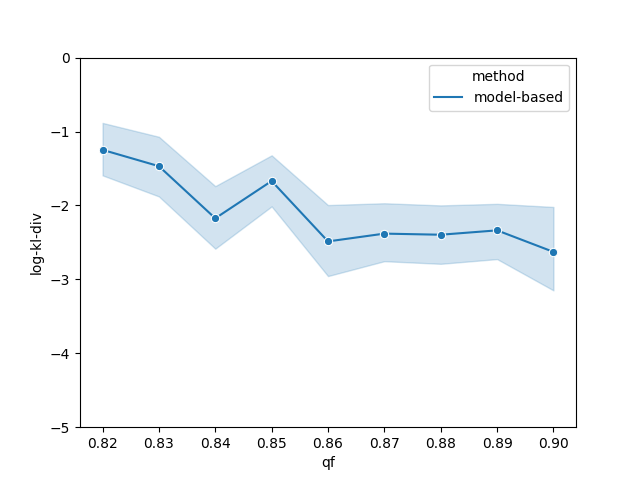
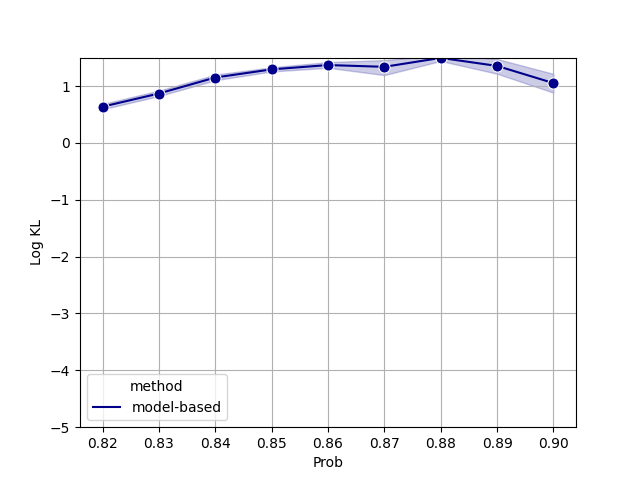
using probe distribution to guide sampling
queueing sampling correction - uniform probe

diff --git a/queueing.py b/queueing.py
@@ -11,8 +11,9 @@ sampled transitions.
 
 def build_tabular(state_seq, max_state):
 	T = np.zeros((max_state+1, max_state+1), dtype=float)
-	for i in range(1, len(state_seq)):
-		T[state_seq[i-1]][state_seq[i]] += 1
+	for (curr_state, next_state) in state_seq:
+		T[curr_state][next_state] += 1
+	
 	row_sums = T.sum(axis=1)
 	row_sums = np.reshape(row_sums, (row_sums.shape[0], 1) )
 
@@ -26,9 +27,14 @@ def estimate_tabular_stationary(transition_mat, iters):
 	stationary_estimate = np.zeros((1,transition_mat.shape[0]))
 	for _ in range(iters):
 		# many transitions and we obtain the last state visited
-		state = 0
+		state = np.random.choice(a=transition_mat.shape[0])
 		for _ in range(iters):
-			state = np.random.choice(a=transition_mat.shape[0], 
+			# print(state, transition_mat[state,:])
+			# implementing a lazy random walk
+			if np.isnan(transition_mat[state,:]).any():
+				state = np.random.choice(a=transition_mat.shape[0])
+			else:
+				state = np.random.choice(a=transition_mat.shape[0], 
 									 p=transition_mat[state,:])
 		stationary_estimate[0, state] += 1
 	
@@ -51,15 +57,19 @@ def gg1_step(curr_state, qa, qf):
 		return curr_state + step_addon
 
 
-def sample_nsteps(n, initial_state, qa, qf, transition_func=gg1_step):
-	curr_state = initial_state
-	state_seq = [curr_state]
-	max_state = initial_state
-	for _ in range(n):
-		curr_state = transition_func(curr_state, qa, qf)
-		state_seq.append(curr_state)
-		if curr_state > max_state:
-			max_state = curr_state
+def sample_nsteps(n, qa, qf, transition_func=gg1_step):
+	if (n < 1):
+		return [], None
+	rho = (qa*(1-qf))/(qf*(1-qa))
+	B = int(np.ceil(40*rho))
+	state_seq = []
+	max_state = -1
+	for i in range(n):
+		curr_state = np.random.choice(a=B)
+		next_state = transition_func(curr_state, qa, qf)
+		state_seq.append((curr_state, next_state) )
+
+		max_state = max(max(next_state, curr_state), max_state)
 	return state_seq, max_state
 
 '''
@@ -75,13 +85,13 @@ def ground_truth_queueing_stationary(qa, qf, max_state):
 '''
 
 def generate_plots(qa, qf, min_val, max_val, increment, var_name, runs, plot_name):
-	log_kl_dict = {"method":[], var_name: [], 
-                  "log-kl-div": []}
+	log_kl_dict = {"method":[], "Samples": [], 
+                  "Log KL": []}
 	for transition_samples in range(min_val, max_val+1, increment):
 		print(f"Generating runs for transitions samples = {transition_samples}")
 		num_runs = 0
 		while num_runs < runs:
-			state_seq, max_state = sample_nsteps(n=transition_samples, initial_state=0, qa=qa, qf=qf)
+			state_seq, max_state = sample_nsteps(n=transition_samples, qa=qa, qf=qf)
 			tabular_model = build_tabular(state_seq, max_state)
 			
 			estimated = estimate_tabular_stationary(tabular_model, iters=200)
@@ -90,21 +100,21 @@ def generate_plots(qa, qf, min_val, max_val, increment, var_name, runs, plot_nam
 			log_kl = np.log(scipy.stats.entropy(estimated, true))
 			if (log_kl != float("inf")):
 				num_runs+=1
-
+				#print(estimated, true)
 				log_kl_dict["method"].append("model-based")
-				log_kl_dict["transition_samples"].append(transition_samples)
-				log_kl_dict["log-kl-div"].append(log_kl)
+				log_kl_dict["Samples"].append(transition_samples)
+				log_kl_dict["Log KL"].append(log_kl)
 
 	log_kl_pd = pd.DataFrame(log_kl_dict)
-	log_kl_plot = sns.lineplot(data=log_kl_pd, x="transition_samples", y="log-kl-div", hue="method", marker="o", palette=["darkblue"], markersize=8)
-	log_kl_plot.set(ylim=(-5, 0))
+	log_kl_plot = sns.lineplot(data=log_kl_pd, x="Samples", y="Log KL", hue="method", marker="o", palette=["darkblue"], markersize=8)
+	log_kl_plot.set(ylim=(-5, 1.5))
 	plt.grid()
 	fig = log_kl_plot.get_figure()
 	fig.savefig(f"{plot_name}.png") 
 	
 def generate_plots_over_qf(qa, min_val, max_val,  runs, plot_name):
-	log_kl_dict = {"method":[], "qf": [], 
-	"log-kl-div":[]}
+	log_kl_dict = {"method":[], "Prob": [], 
+	"Log KL":[]}
 	qfs = [np.round(min_val+(0.01)*i, 2) for i in range(int((max_val-min_val)/0.01 )+1)]
 
 	for qf in qfs:
@@ -112,22 +122,25 @@ def generate_plots_over_qf(qa, min_val, max_val,  runs, plot_name):
 		num_runs = 0
 		while num_runs < runs:
 			
-			state_seq, max_state = sample_nsteps(n=200, initial_state=0, qa=qa, qf=qf)
+			state_seq, max_state = sample_nsteps(n=200, qa=qa, qf=qf)
 			tabular_model = build_tabular(state_seq, max_state)
 			if (np.isnan(tabular_model).any()):
 				continue
-			
+	
 			estimated = estimate_tabular_stationary(tabular_model, iters=200)
 			true = ground_truth_queueing_stationary(qa, qf, max_state)
 			log_kl = np.log(scipy.stats.entropy(estimated, true))
 			if (log_kl != float("inf")):
 				num_runs+=1
 				log_kl_dict["method"].append("model-based")
-				log_kl_dict["qf"].append(qf)
-				log_kl_dict["log-kl-div"].append(log_kl)
+				log_kl_dict["Prob"].append(qf)
+				log_kl_dict["Log KL"].append(log_kl)
 	log_kl_pd = pd.DataFrame(log_kl_dict)
-	log_kl_plot = sns.lineplot(data=log_kl_pd, x="qf", y="log-kl-div", hue="method", marker="o", color="darkblue")
-	log_kl_plot.set(ylim=(-5, 0))
+	plt.clf()
+	log_kl_plot = sns.lineplot(data=log_kl_pd, x="Prob", y="Log KL", hue="method", marker="o", 
+							   palette=["darkblue"], markersize=8)
+	log_kl_plot.set(ylim=(-5, 1.5))
+	plt.grid()
 	fig = log_kl_plot.get_figure()
 	fig.savefig(f"{plot_name}.png")
 
@@ -135,10 +148,11 @@ if __name__ == "__main__":
 	qa, qf = 0.8, 0.9
 	min_transitions, max_transitions = 100, 500
 	runs = 30
-	'''	
-	state_seq, max_state = sample_nsteps(n=100, initial_state=0, qa=qa, qf=qf)
-	tabular_model = build_tabular(state_seq, max_state)
-	print(tabular_model)
+	"""	
+	sampled_transitions, max_state = sample_nsteps(n=2000, qa=qa, qf=qf)
+	# print(sampled_transitions)
+	tabular_model = build_tabular(sampled_transitions, max_state)
+	# print(tabular_model)
 	estimated = estimate_tabular_stationary(tabular_model, iters=200)
 	# true distribution only up to a maximum state.
 	true = ground_truth_queueing_stationary(qa, qf, max_state)
@@ -147,8 +161,9 @@ if __name__ == "__main__":
 	log_kl = np.log(scipy.stats.entropy(estimated, true))
 
 	print(log_kl)
-	'''
-	np.random.seed(42)
-	# generate_plots(qa, qf, min_transitions, max_transitions, 100, "transition_samples", runs, "figure2")
+	"""
+
+	np.random.seed(20)
+	generate_plots(qa, qf, min_transitions, max_transitions, 100, "transition_samples", runs, "figure2")
 	generate_plots_over_qf(qa, 0.82, 0.90, runs, "figure2_qf")
 	
